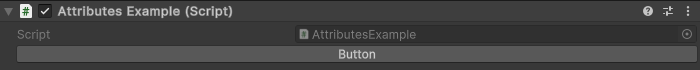
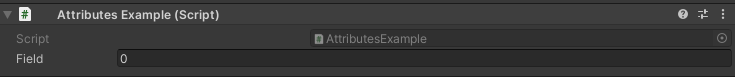
Updated HowToUse

diff --git a/docs/source/GettingStarted/howtouse.rst b/docs/source/GettingStarted/howtouse.rst
@@ -51,24 +51,22 @@ Attribute Order
 
 The logic of all attributes are executed in the order they are written (left to right), meaning the last attribute can override the functionality of the previous attribute
 if the functionality is similar.
-In the following example the :doc:`../Attributes/readonly` will execute after the :doc:`../Attributes/button` meaning the `buttonHolder` field will be made drawn over by the button 
-then it will get disabled by the :doc:`../Attributes/readonly`, leaving the button still enabled::
+In the following example the :doc:`../Attributes/propertywidth` will execute after the :doc:`../Attributes/prefix` meaning the prefix will be added before the property width is set, so the 
+:doc:`../Attributes/prefix` couldn't calculate it's position to be next to the field because the field width changed after the prefix was already calculated::
 
 	using UnityEngine;
 	using EditorAttributes;
 	
 	public class AttributesExample : MonoBehaviour
 	{
-		[Button(nameof(Button)), ReadOnly]
-		[SerializeField] private Void buttonHolder;
-	
-		public void Button() => print("Hello World!");
+		[Prefix("num"), PropertyWidth(100f)]
+		[SerializeField] private int field;
 	}
 
 .. image:: ../Images/HowToUse02.png
 
-To fix this and have the button disabled we can change the other by putting the :doc:`../Attributes/readonly` before the :doc:`../Attributes/button` or use the `order` property that every attribute has
-to execute the :doc:`../Attributes/readonly` first, C# will first go trough the attributes with the lowest order from left to right then to the ones with the higher order the same way,
+To fix this we can change the order by putting the :doc:`../Attributes/propertywidth` before the :doc:`../Attributes/prefix` or use the `order` parameter that every attribute has
+to execute the :doc:`../Attributes/propertywidth` first, C# will first go trough the attributes with the lowest order from left to right then to the ones with the higher order the same way,
 the default order of all attributes is 0::
 
 	using UnityEngine;
@@ -76,12 +74,10 @@ the default order of all attributes is 0::
 	
 	public class AttributesExample : MonoBehaviour
 	{
-		[Button(nameof(Button)), ReadOnly(order = -1)]
-		[SerializeField] private Void buttonHolder;
-	
-		public void Button() => print("Hello World!");
+		[Prefix("num"), PropertyWidth(100f, order = -1)]
+		[SerializeField] private int field;
 	}
 
-So now the :doc:`../Attributes/readonly` will be executed first disabling the field before it becomes a button and now the button will be drawn as disabled.
+So now the :doc:`../Attributes/propertywidth` will be executed first and the :doc:`../Attributes/prefix` calculates it's position using the new width set by it.
 
 .. image:: ../Images/HowToUse03.png
